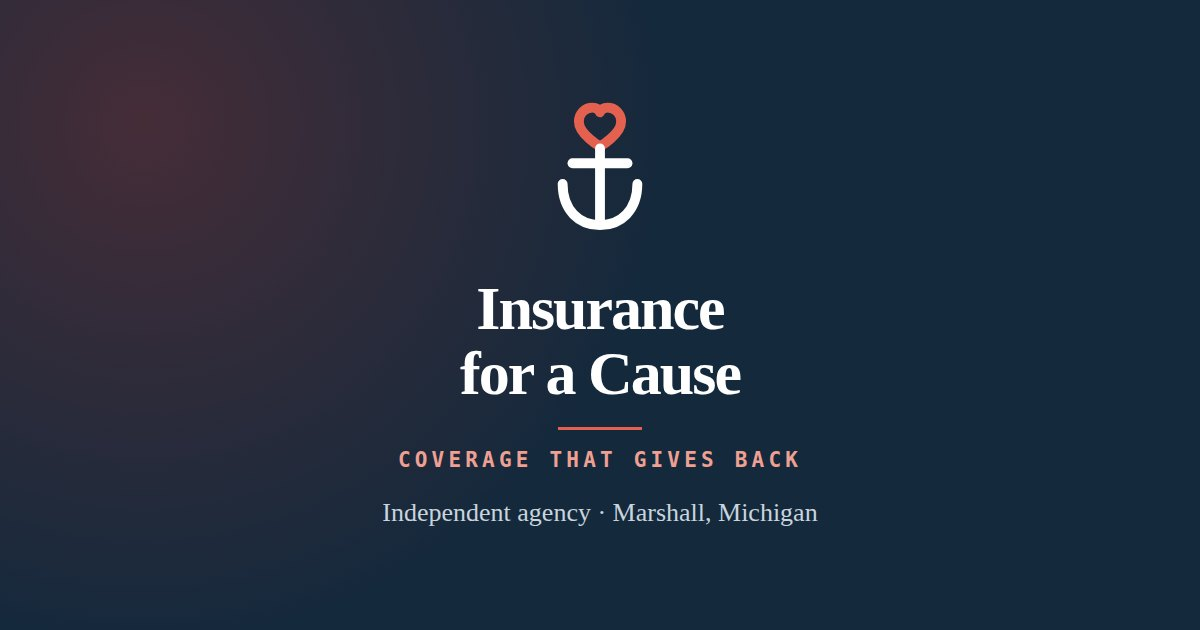
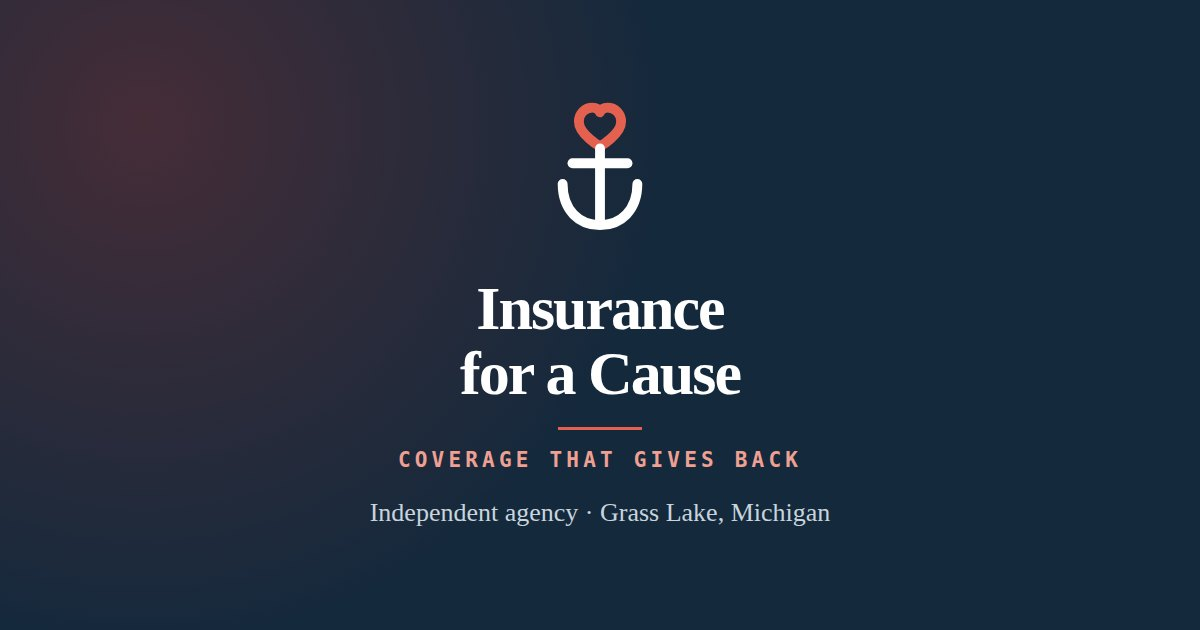
They are in Grass Lake, not Marshall
Kevin caught this. The whole first build said Marshall because that is his town
and I never asked. They are in GRASS LAKE, a village of about 1,100 in Jackson
county, just south of I-94 and roughly 48 miles east of Marshall. Different
county, different school district, different neighbours.

The reason it spread so far is worth naming: `city` was the one contact field
NOT written as a placeholder. Everything else in that block is
"PLACEHOLDER:phone", "PLACEHOLDER:ZIP" and so on, and this one sat there as a
bare string, so it read as a confirmed fact and got written into page titles, the
hero kicker, the structured data, the demo's link card and four local guides
before anybody questioned it. An assumed fact that looks like a confirmed one is
worse than a blank, because a blank gets asked about.

Corrected everywhere it is the client's town, and deliberately left alone in the
three places it is Glazed's: the credit line and the two footer notes on the
pitch, which are about Kevin and are right.

Two pieces of local content were only true for Marshall and are gone:

- THE BLUEOVAL HOOK. Ford's battery plant is a Marshall story. It is about 40
  miles from Grass Lake and has nothing to do with their book. Cut from the
  proposal.
- "AN EF-3 FIFTEEN MILES AWAY." The March 6 2026 tornadoes hit Branch, St
  Joseph, Cass and Calhoun counties. Jackson county is not among them and Union
  City is about 48 miles from Grass Lake. The storm guide keeps the event,
[…]

Changed region(s): [[0.3083, 0.7841, 0.7092, 0.8444]]

diff --git a/lib/guides.ts b/lib/guides.ts
@@ -85,15 +85,15 @@ export const guides: Guide[] = [
   {
     slug: "storm-claims-after-march-6",
     title: "After March 6: what a wind and hail claim actually involves",
-    dek: "The strongest tornado in Michigan since 1977 touched down fifteen miles from here.",
+    dek: "The strongest tornado in Michigan since 1977 came through this March.",
     description:
       "The March 6, 2026 tornadoes hit Branch, St. Joseph, Cass and Calhoun counties. What a wind and hail deductible really costs, what replacement cost means, and how to spot a storm chaser.",
     body: [
       {
-        p: "On March 6, 2026 four tornadoes touched down across southwest Michigan. The Union City tornado was rated EF-3 with peak winds of 160 mph and killed three people, injuring twelve. The National Weather Service recorded it as the strongest tornado in Michigan since the F4 that struck Kalamazoo and Eaton counties on April 2, 1977. A fourth tornado, an EF-0 with 85 mph winds, touched down in Clarendon Township, in Calhoun County.",
+        p: "On March 6, 2026 four tornadoes touched down across southern Michigan. The Union City tornado was rated EF-3 with peak winds of 160 mph and killed three people, injuring twelve. The National Weather Service recorded it as the strongest tornado in Michigan since the F4 that struck Kalamazoo and Eaton counties on April 2, 1977. It was about an hour west of here, which is close enough to be the same weather and far enough that most people around Grass Lake watched it on the news.",
       },
       {
-        p: "We are writing this because it happened here, not to frighten anybody into buying something. Three things about storm claims are worth understanding before you need them, and all three are easier to fix in February than in March.",
+        p: "We are writing this because it is the kind of March that is going to keep happening, not to frighten anybody into buying something. Three things about storm claims are worth understanding before you need them, and all three are easier to fix in February than in March.",
       },
       { h: "Your wind and hail deductible is probably not a dollar figure" },
       {
@@ -121,7 +121,7 @@ export const guides: Guide[] = [
     title: "ZIP codes were banned in 2020. So why does your address still matter?",
     dek: "Because the rating factor changed shape instead of going away.",
     description:
-      "Michigan banned ZIP code and credit score as auto insurance rating factors in 2020. Territories drawn from census tracts replaced them, which is why Marshall, Battle Creek and Albion still quote differently.",
+      "Michigan banned ZIP code and credit score as auto insurance rating factors in 2020. Territories drawn from census tracts replaced them, which is why Grass Lake, Jackson and Chelsea still quote differently.",
     body: [
       {
         p: "The 2019 reform banned a specific list of rating factors from Michigan auto insurance, ZIP code and credit score among them, and the ban took effect in 2020. People reasonably concluded that where they live stopped mattering. Two quotes from two sides of the same county say otherwise.",
@@ -132,7 +132,7 @@ export const guides: Guide[] = [
       },
       { h: "What that means for you" },
       {
-        p: "Marshall, Battle Creek and Albion can quote differently on identical drivers and identical cars, and the difference between carriers in the same town can be larger than the difference between towns. Which is the actual argument for shopping it instead of renewing.",
+        p: "Grass Lake, Jackson and Chelsea can quote differently on identical drivers and identical cars, and the difference between carriers in the same town can be larger than the difference between towns. Which is the actual argument for shopping it instead of renewing.",
       },
       {
         note: "If a quote seems out of line with a neighbor’s, it is more often a different carrier’s territory map than a mistake on your record. Worth asking about before you assume.",

diff --git a/public/pitch/insuranceforacause/logo.html b/public/pitch/insuranceforacause/logo.html
@@ -279,8 +279,8 @@ footer .inner{max-width:1100px;margin:0 auto;padding:52px 24px 34px}
 
 <div class="ticker" aria-hidden="true">
   <div class="ticker-inner">
-    <span>Anchor Insurance and Risk Management</span><span>&bull;</span><span>Coverage that gives back</span><span>&bull;</span><span>Marshall, Michigan</span><span>&bull;</span><span>Independent agency</span><span>&bull;</span><span>Anchor Insurance and Risk Management</span><span>&bull;</span><span>Coverage that gives back</span><span>&bull;</span><span>Marshall, Michigan</span><span>&bull;</span><span>Independent agency</span><span>&bull;</span>
-    <span>Anchor Insurance and Risk Management</span><span>&bull;</span><span>Coverage that gives back</span><span>&bull;</span><span>Marshall, Michigan</span><span>&bull;</span><span>Independent agency</span><span>&bull;</span><span>Anchor Insurance and Risk Management</span><span>&bull;</span><span>Coverage that gives back</span><span>&bull;</span><span>Marshall, Michigan</span><span>&bull;</span><span>Independent agency</span><span>&bull;</span>
+    <span>Anchor Insurance and Risk Management</span><span>&bull;</span><span>Coverage that gives back</span><span>&bull;</span><span>Grass Lake, Michigan</span><span>&bull;</span><span>Independent agency</span><span>&bull;</span><span>Anchor Insurance and Risk Management</span><span>&bull;</span><span>Coverage that gives back</span><span>&bull;</span><span>Grass Lake, Michigan</span><span>&bull;</span><span>Independent agency</span><span>&bull;</span>
+    <span>Anchor Insurance and Risk Management</span><span>&bull;</span><span>Coverage that gives back</span><span>&bull;</span><span>Grass Lake, Michigan</span><span>&bull;</span><span>Independent agency</span><span>&bull;</span><span>Anchor Insurance and Risk Management</span><span>&bull;</span><span>Coverage that gives back</span><span>&bull;</span><span>Grass Lake, Michigan</span><span>&bull;</span><span>Independent agency</span><span>&bull;</span>
   </div>
 </div>
 
@@ -363,7 +363,7 @@ footer .inner{max-width:1100px;margin:0 auto;padding:52px 24px 34px}
     <div class="cards" style="margin-top:34px">
       <div class="card reveal">
         <h3>What we need from you</h3>
-        <p>A photograph of something in Marshall that means something to you. A brick wall, the water, a sign, the building you work in. We pull the navy and the red out of it, and the guidelines say where they came from. It costs nothing and it turns a palette into a decision.</p>
+        <p>A photograph of something in Grass Lake that means something to you. A brick wall, the water, a sign, the building you work in. We pull the navy and the red out of it, and the guidelines say where they came from. It costs nothing and it turns a palette into a decision.</p>
       </div>
       <div class="card reveal">
         <h3>And the thing that matters more than any of it</h3>
@@ -396,7 +396,7 @@ footer .inner{max-width:1100px;margin:0 auto;padding:52px 24px 34px}
           </div>
           <div class="sitehero">
             <h4>Coverage that gives back.</h4>
-            <p>An independent agency in <span class="ph">Marshall</span>, shopping <span class="ph">your carriers</span> for you, and giving a share of every commission to a local cause you can watch us pick.</p>
+            <p>An independent agency in <span class="ph">Grass Lake</span>, shopping <span class="ph">your carriers</span> for you, and giving a share of every commission to a local cause you can watch us pick.</p>
             <div class="row"><span class="b1">Get my quote</span><span class="b2">See where the money went</span></div>
           </div>
           <div class="giveband">

diff --git a/public/pitch/insuranceforacause/index.html b/public/pitch/insuranceforacause/index.html
@@ -498,7 +498,7 @@ footer .inner { max-width: 1100px; margin: 0 auto; padding: 56px 24px 36px; }
   <div class="inner">
     <p class="sec-kicker reveal">The part that matters most</p>
     <h2 class="sec-title reveal">A promise nobody can check is a slogan. A ledger is a fact.</h2>
-    <p class="lede reveal">Everything above says some version of we give back. Your site is going to say <strong>$340, on the 14th, to the Marshall band program, here is the photo of the check.</strong> That is a different kind of sentence, and it is the one thing on this list your competitors cannot copy quickly, because copying it means having counted all along.</p>
+    <p class="lede reveal">Everything above says some version of we give back. Your site is going to say <strong>$340, on the 14th, to the Grass Lake band program, here is the photo of the check.</strong> That is a different kind of sentence, and it is the one thing on this list your competitors cannot copy quickly, because copying it means having counted all along.</p>
 
     <div class="wcards">
       <div class="wcard reveal">
@@ -562,7 +562,7 @@ footer .inner { max-width: 1100px; margin: 0 auto; padding: 56px 24px 36px; }
       </div>
     </div>
 
-    <p class="later reveal"><b>And a handful of pages nobody local is writing.</b> Excess attendant care costs about $14 a year and roughly 5% of Michigan drivers carry it. Mini-tort is $3,000, only if you are half at fault or less, and only for the vehicle. ZIP code was banned as a rating factor in 2020 and your rate still depends on where you live, which is a question you get asked constantly. And on March 6 an EF-3 killed three people in Union City, fifteen miles away, with a touchdown in Calhoun County itself, which is a storm-claims page written from something that actually happened rather than from fear.</p>
+    <p class="later reveal"><b>And a handful of pages nobody local is writing.</b> Excess attendant care costs about $14 a year and roughly 5% of Michigan drivers carry it. Mini-tort is $3,000, only if you are half at fault or less, and only for the vehicle. ZIP code was banned as a rating factor in 2020 and your rate still depends on where you live, which is a question you get asked constantly. And on March 6 the strongest tornado in Michigan since 1977 came through southern Michigan, which is a storm-claims page written from something that actually happened.</p>
   </div>
 </section>
 

diff --git a/lib/site.ts b/lib/site.ts
@@ -48,9 +48,26 @@ export const site = {
     phoneHref: "PLACEHOLDER:phone-digits" as string,
     email: "PLACEHOLDER:email" as string,
     street: "PLACEHOLDER:street address" as string,
-    city: "Marshall",
+    /**
+     * GRASS LAKE, NOT MARSHALL.
+     *
+     * This said Marshall for the whole first build because that is Kevin's town
+     * and I never asked. It is a village of about 1,100 in JACKSON county, just
+     * south of I-94, roughly 48 miles east of Marshall and a different county,
+     * a different school district and a different set of neighbouring towns.
+     *
+     * It was also the one contact field that was NOT a placeholder, so it read
+     * as a known fact and got written into page titles, the hero, the structured
+     * data and four local guides before anybody questioned it. An assumed fact
+     * that looks like a confirmed one is worse than a blank.
+     */
+    city: "Grass Lake",
+    county: "Jackson",
     state: "MI",
     zip: "PLACEHOLDER:ZIP" as string,
+    /** The towns a local guide may name. Anything not on this list is not local
+     *  to them, however good the story is. */
+    nearby: ["Jackson", "Chelsea", "Michigan Center", "Napoleon", "Munith"],
     /** True if there is no walk-in office. Changes how the contact page reads. */
     byAppointmentOnly: true,
   },

diff --git a/lib/pip.ts b/lib/pip.ts
@@ -113,6 +113,6 @@ export const pipMisconceptions = [
   {
     claim: "Your ZIP code sets your rate.",
     truth:
-      "ZIP code and credit score were banned as rating factors in 2020. Carriers moved to territories drawn from census tracts and grid systems instead, which is why Marshall, Battle Creek and Albion still quote differently.",
+      "ZIP code and credit score were banned as rating factors in 2020. Carriers moved to territories drawn from census tracts and grid systems instead, which is why Grass Lake, Jackson and Chelsea still quote differently.",
   },
 ];

diff --git a/lib/ticker.ts b/lib/ticker.ts
@@ -58,6 +58,6 @@ export const marketNotes: string[] = [
   "Mini-tort caps at $3,000, and only if you are 50% at fault or less",
   "ZIP code was banned as a rating factor in 2020",
   "Carriers moved to census tract territories instead",
-  "An EF-3 touched down 15 miles from Marshall on March 6",
+  "The strongest Michigan tornado since 1977 hit on March 6",
   "Wind and hail deductibles are often a percentage, not a dollar figure",
 ];

diff --git a/tools/demo-og-card.html b/tools/demo-og-card.html
@@ -49,7 +49,7 @@
     <p class="name">Insurance<br>for a Cause</p>
     <div class="rule"></div>
     <p class="tag">Coverage that gives back</p>
-    <p class="where">Independent agency &middot; Marshall, Michigan</p>
+    <p class="where">Independent agency &middot; Grass Lake, Michigan</p>
   </div>
 </body>
 </html>

diff --git a/glaze-client-file.md b/glaze-client-file.md
@@ -7,7 +7,7 @@ copy.
 
 ---
 
-Independent insurance agency, Marshall, Michigan. **Prospect, not signed** as of
+Independent insurance agency, Grass Lake, Michigan. **Prospect, not signed** as of
 August 2026.
 
 | | |
@@ -45,8 +45,10 @@ matter here:
    the cause is chosen by a **public vote open to anyone** and why there is no
    choose-your-charity control on the quote form. **Do not add one**, however
    good an idea it looks.
-3. **The recipient must not be a client of the producer.** Published on the
-   giving page and in the footer.
+3. **The recipient must not be a client of the producer.** In the footer only.
+   It was on the homepage and the giving page too and Kevin pulled it: in the
+   body of a page it explains a licensing constraint to a customer who never
+   asked.
 
 Her attorney or E&O carrier signs the program off. DIFS closes its own FAQ
 recommending counsel. **We do not give the legal opinion**, we hand over a written
@@ -75,6 +77,28 @@ hour, in her words. **Inventing it would be the most damaging thing available on
 this site.**
 
 ## Retired
+
+**"Marshall, Michigan."** The entire first build said Marshall, in page titles,
+the hero, the structured data and four local guides. Nobody asked, and it was the
+one contact field that was NOT written as a placeholder, so it read as a
+confirmed fact and propagated. **They are in Grass Lake**, a village of about
+1,100 in Jackson County, just south of I-94 and roughly 48 miles east of
+Marshall. Different county, different school district, different neighbours.
+
+Two pieces of local content died with it, and it is worth knowing why so they do
+not come back:
+
+- **The BlueOval hook.** Ford's battery plant is a Marshall story. It is about 40
+  miles from Grass Lake and has nothing to do with their book.
+- **"An EF-3 fifteen miles away."** The March 6 2026 tornadoes hit Branch, St
+  Joseph, Cass and Calhoun counties. Jackson County is not among them, and Union
+  City is about 48 miles from Grass Lake. The storm guide keeps the event,
+  because it is the strongest Michigan tornado since 1977 and that is a statewide
+  fact, but the proximity claim is gone.
+
+**The towns a local guide may name are Jackson, Chelsea, Michigan Center,
+Napoleon and Munith.** They are in `site.contact.nearby` so this is checkable
+instead of remembered.
 
 **"The giving program is the differentiator."** Researched and dropped. 96% of
 independent agents already donate, only about 34% of Americans say a charitable

diff --git a/README.md b/README.md
@@ -1,7 +1,7 @@
 # Insurance for a Cause
 
 The website for **Insurance for a Cause**, the trade name of **Anchor Insurance
-and Risk Management**, an independent agency in Marshall, Michigan.
+and Risk Management**, an independent agency in Grass Lake, Michigan.
 
 Next.js App Router, TypeScript, plain CSS, deployed on Vercel. **Prospect, not
 signed** as of August 2026: this is a concept build, and the pitch that goes with
